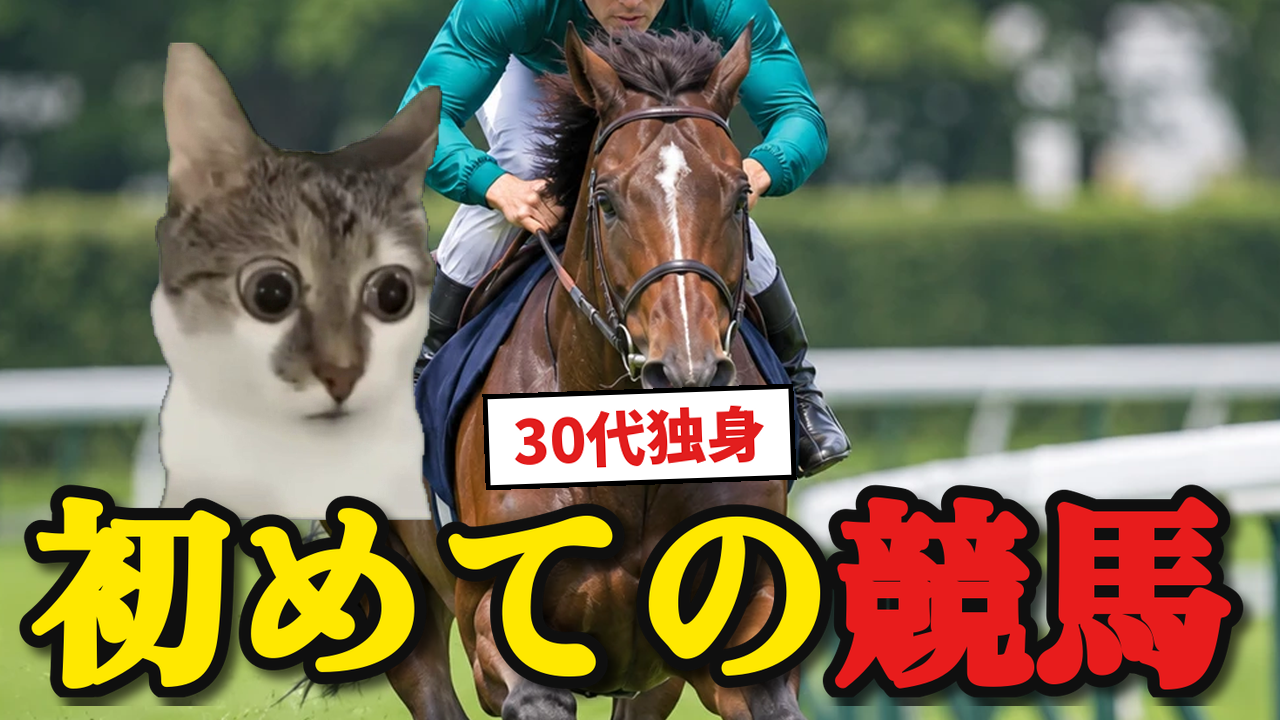
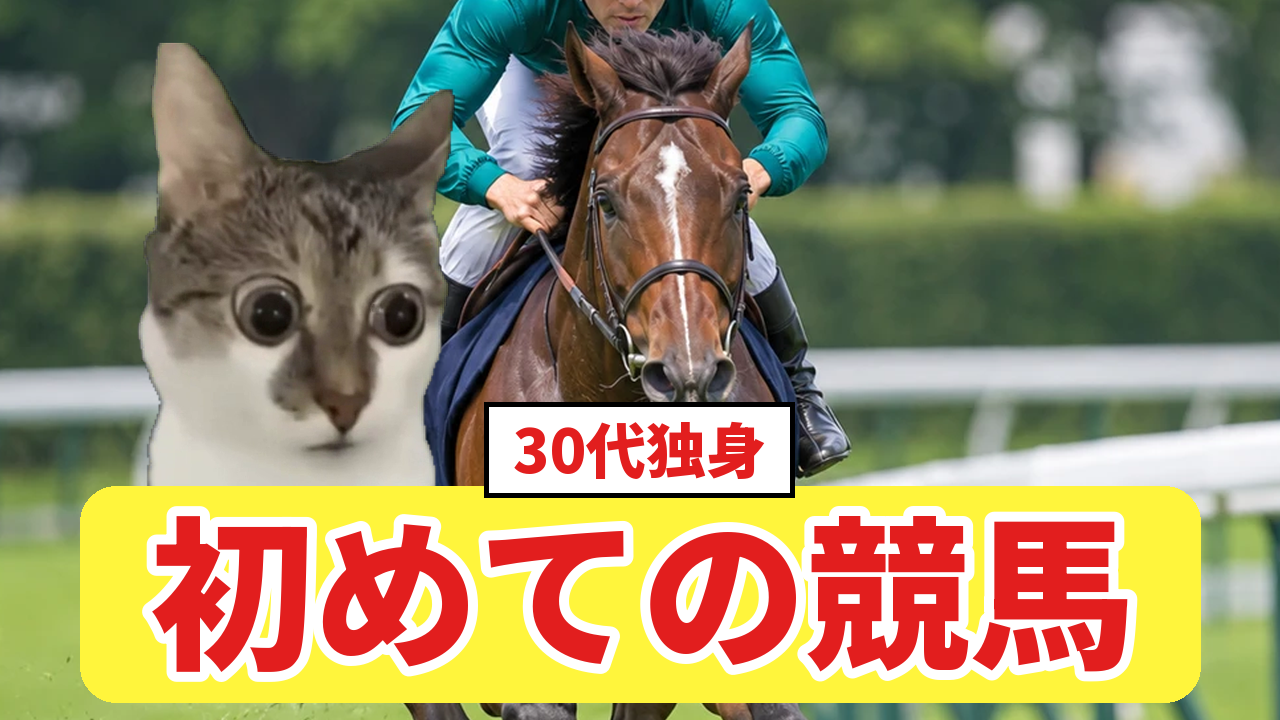
自堕落#22 競馬：サムネ（黄色い角丸の帯＋かたむけない30代独身の札）
Claude-Session: https://claude.ai/code/session_011g9CsrfFD5YswfNSvNDW39

diff --git a/catmeme/make_thumb_keiba.py b/catmeme/make_thumb_keiba.py
@@ -168,3 +168,21 @@ def final4():
     img.alpha_composite(box, ((T.W - box.width) // 2, by - box.height + 10))
     img.alpha_composite(out, ((T.W - out.width) // 2, by))
     T.save(img, "jidaraku_22_keiba_thumb_final.png")
+
+
+def final5():
+    """11/17 ユーザー指定：final2（黄色い角丸の帯・赤いゴシック）に、final4 の「30代独身」の札（白地・黒い枠・赤いゴシック）を
+    合わせる。札はかたむけない。"""
+    img = T.fill_photo("f_horse", T.W, T.H, cy=0.3, zoom=1.06)
+    T.put_cat(img, "stare_big_eyes_tabby_kitten", 0.6, 300, 560, 520, False)
+    big = T.runs([("初めての競馬", T.RED)], 200, 10, T.W - 260)
+    bh = big.height + 40
+    by = T.H - bh - 18
+    ImageDraw.Draw(img).rounded_rectangle((80, by, T.W - 80, by + bh), 36, fill=(255, 245, 60, 255))
+    img.alpha_composite(big, ((T.W - big.width) // 2, by + 20))
+    t = T.runs([("30代独身", (T.RED, T.WHITE))], 60, 2, 640)
+    box = Image.new("RGBA", (t.width + 56, t.height + 34), T.WHITE + (255,))
+    ImageDraw.Draw(box).rectangle((0, 0, box.width - 1, box.height - 1), outline=T.BLACK, width=5)
+    box.alpha_composite(t, (28, 17))
+    img.alpha_composite(box, ((T.W - box.width) // 2, by - box.height + 12))
+    T.save(img, "jidaraku_22_keiba_thumb_final.png")
